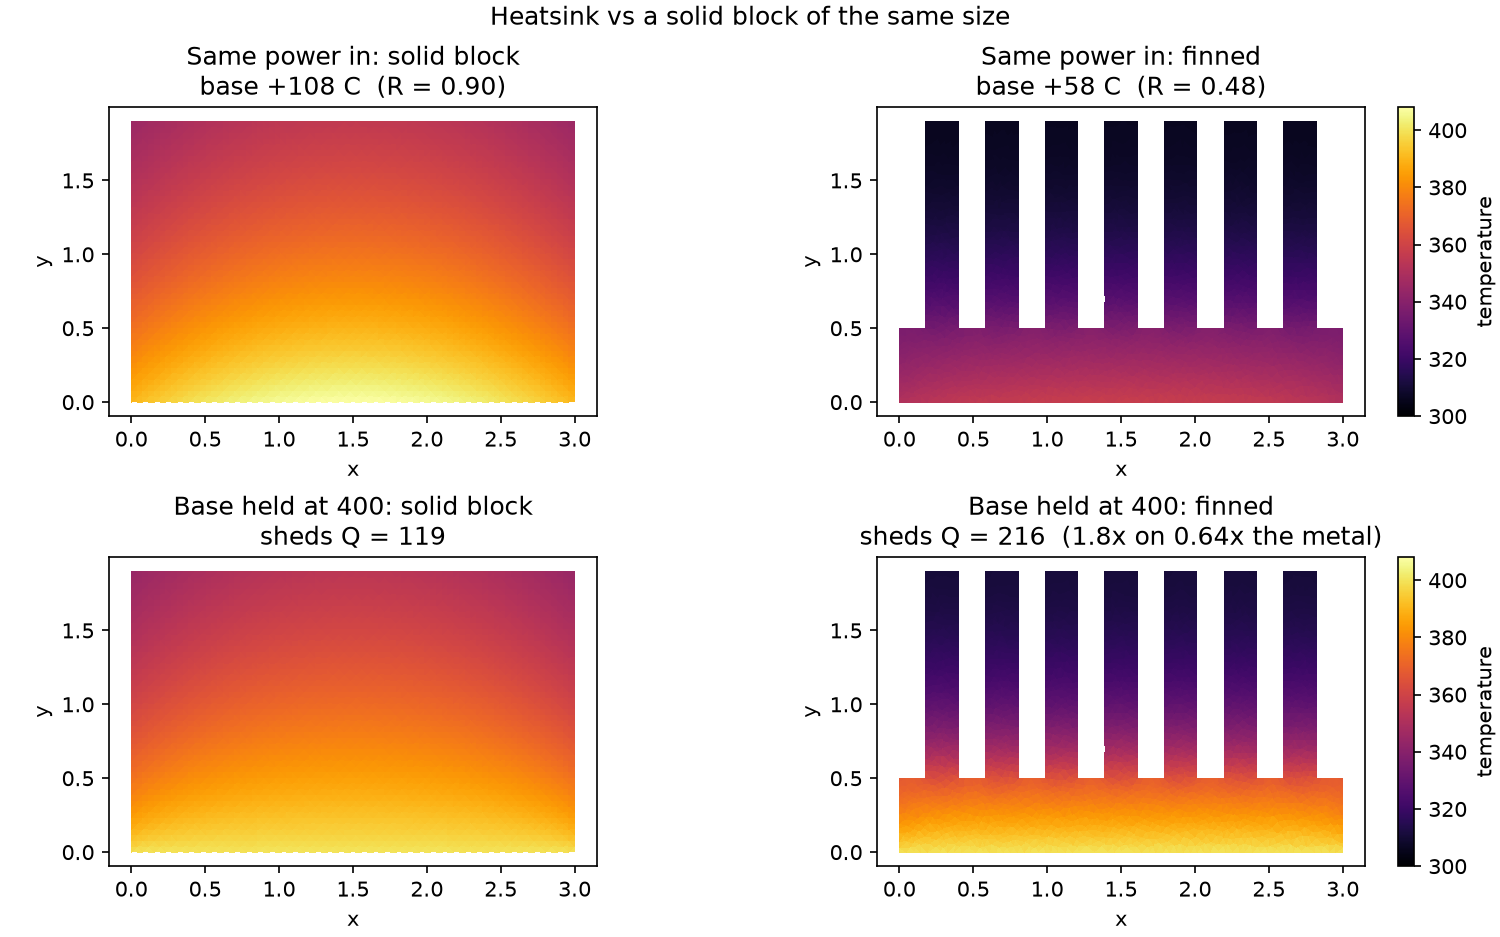
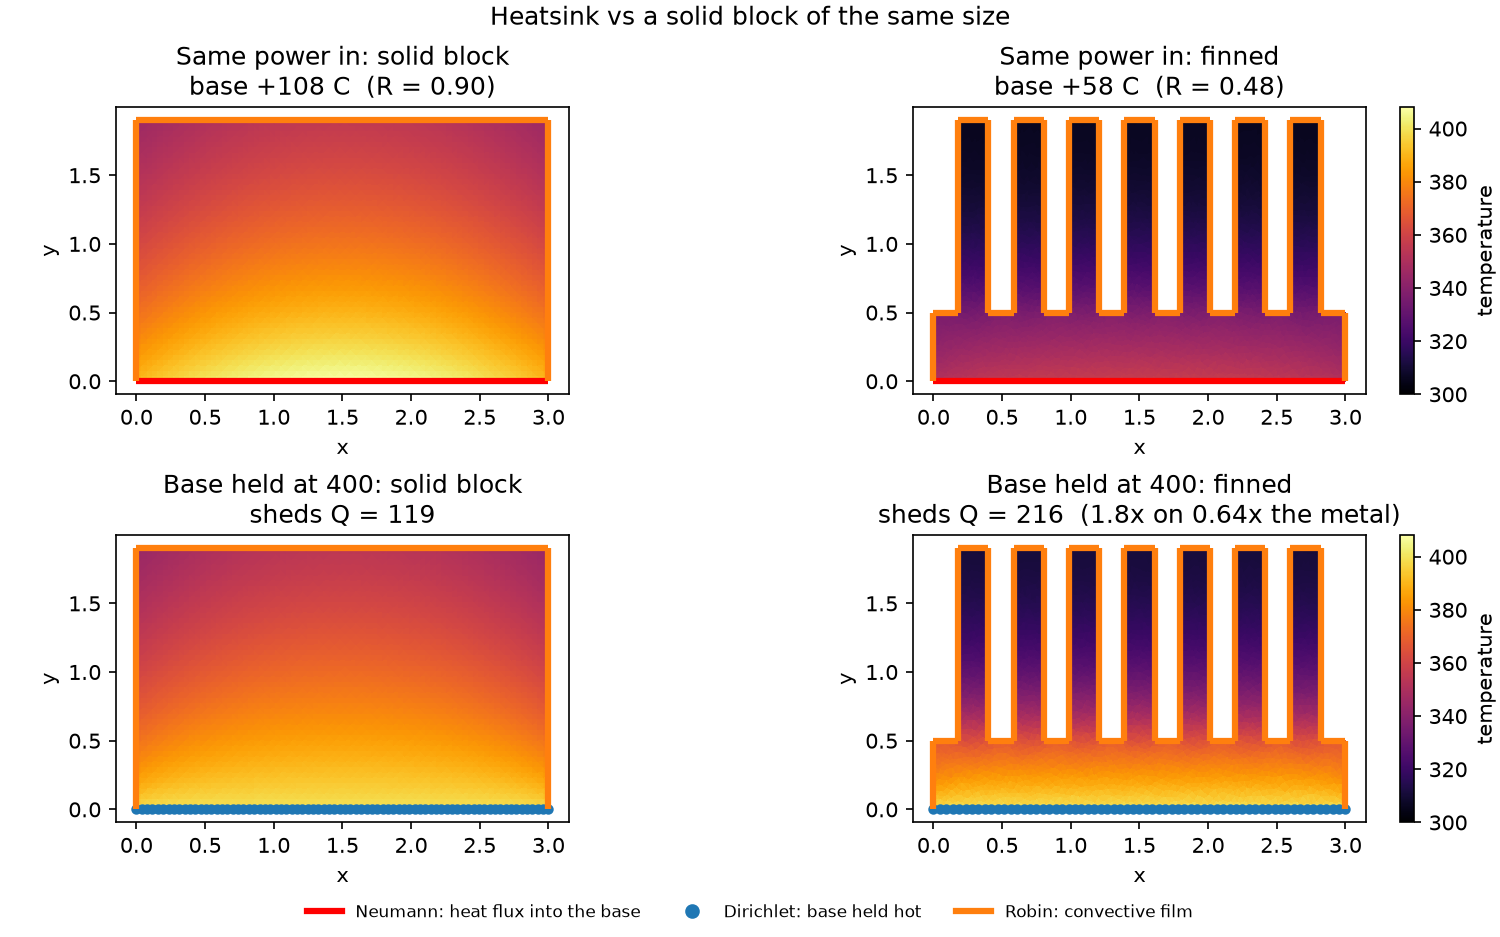
Label the boundary conditions on the heatsink comparison panels
Overlay each panel's conditions on the block-vs-finned comparison: a red run for
the Neumann heat flux into the base (fixed-power row), blue dots for the held
Dirichlet base (fixed-temperature row), and the orange Robin film it sheds
through, with a shared legend. Splits a _heatsink_bc builder out of
_steady_heatsink so the same spec drives both the solve and the overlay.

diff --git a/examples/solver_demos.py b/examples/solver_demos.py
@@ -7,6 +7,7 @@ import numpy as np
 from functools import partial
 
 from matplotlib.collections import LineCollection
+from matplotlib.lines import Line2D
 
 from fem.adaptivity import AdaptiveRefinement
 from fem.backends import IterativeBackend
@@ -801,16 +802,21 @@ def _heatsink_film(mesh):
     return union(in_box([None, 1e-6], [None, None]), on_plane(0, 0.0), on_plane(0, w))
 
 
-def _steady_heatsink(mesh, add_base, kappa, u_ambient):
-    """Steady heat field with `add_base(bc)` on the bottom edge and a Robin film elsewhere.
+def _heatsink_bc(mesh, add_base, kappa, u_ambient):
+    """The boundary spec: `add_base(bc)` on the bottom edge, a Robin film everywhere else."""
+    bc = BoundaryConditions()
+    add_base(bc)
+    bc.add_robin(_heatsink_film(mesh), kappa=kappa, g=kappa * u_ambient)
+    return bc
+
+
+def _steady_heatsink(mesh, bc, kappa, u_ambient):
+    """Steady heat field for `bc` (a base condition plus a Robin film).
 
     Returns (u, heat_shed), where heat_shed is the convective loss through the film,
     kappa * integral_film (u - u_ambient). At steady state that equals the heat entering
     the base, so it is the sink's dissipation.
     """
-    bc = BoundaryConditions()
-    add_base(bc)
-    bc.add_robin(_heatsink_film(mesh), kappa=kappa, g=kappa * u_ambient)
     solver = Solver(mesh, Poisson(source=0), bc)
     u = solver.solve().u
     # The convective loss, read off the same region-restricted boundary mass a Robin
@@ -854,7 +860,8 @@ def _fin_efficiency(kappa, u_ambient, u_hot, thickness, lengths):
     for length in lengths:
         ny = max(10, round(10 * length / thickness))    # ~10 elements across the thickness
         fin = create_rect_mesh(corners=[[0.0, 0.0], [thickness, length]], resolution=(10, ny))
-        _, shed = _steady_heatsink(fin, add_hot, kappa, u_ambient)
+        _, shed = _steady_heatsink(fin, _heatsink_bc(fin, add_hot, kappa, u_ambient),
+                                   kappa, u_ambient)
         area = 2 * length + thickness
         eta_fem.append(shed / (kappa * area * (u_hot - u_ambient)))
         lc = length + thickness / 2
@@ -905,14 +912,19 @@ def demo_heat_equation(dt=0.06, steps=30, kappa=0.3, u_ambient=300.0, u_hot=400.
     def add_hot(bc):
         bc.add(BCType.DIRICHLET, on_plane(1, 0.0), u_hot)
 
+    bc_block_p = _heatsink_bc(block, add_flux, kappa, u_ambient)
+    bc_fin_p = _heatsink_bc(mesh, add_flux, kappa, u_ambient)
+    bc_block_t = _heatsink_bc(block, add_hot, kappa, u_ambient)
+    bc_fin_t = _heatsink_bc(mesh, add_hot, kappa, u_ambient)
+
     power = flux * width
-    u_block_p, _ = _steady_heatsink(block, add_flux, kappa, u_ambient)
-    u_fin_p, _ = _steady_heatsink(mesh, add_flux, kappa, u_ambient)
+    u_block_p, _ = _steady_heatsink(block, bc_block_p, kappa, u_ambient)
+    u_fin_p, _ = _steady_heatsink(mesh, bc_fin_p, kappa, u_ambient)
     r_block = (float(u_block_p.max()) - u_ambient) / power
     r_fin = (float(u_fin_p.max()) - u_ambient) / power
 
-    u_block_t, q_block = _steady_heatsink(block, add_hot, kappa, u_ambient)
-    u_fin_t, q_fin = _steady_heatsink(mesh, add_hot, kappa, u_ambient)
+    u_block_t, q_block = _steady_heatsink(block, bc_block_t, kappa, u_ambient)
+    u_fin_t, q_fin = _steady_heatsink(mesh, bc_fin_t, kappa, u_ambient)
     effectiveness = q_fin / q_block
 
     # One colour scale across all four (ambient to the block's fixed-power peak), so the
@@ -935,6 +947,18 @@ def demo_heat_equation(dt=0.06, steps=30, kappa=0.3, u_ambient=300.0, u_hot=400.
                     label='temperature',
                     title=f'Base held at {u_hot:.0f}: finned\nsheds Q = {q_fin:.0f}  '
                           f'({effectiveness:.1f}x on {metal_ratio:.2f}x the metal)')
+    # Mark where each panel takes its conditions: heat into the base (a Neumann flux on the
+    # fixed-power row, a held Dirichlet temperature on the fixed-temperature row) and the
+    # Robin film it leaves through.
+    for idx, m, panel_bc in (((0, 0), block, bc_block_p), ((0, 1), mesh, bc_fin_p),
+                             ((1, 0), block, bc_block_t), ((1, 1), mesh, bc_fin_t)):
+        comparison.overlay_supports(m, panel_bc, idx=idx)
+    comparison.fig.legend(handles=[
+        Line2D([], [], color='red', lw=3, label='Neumann: heat flux into the base'),
+        Line2D([], [], marker='o', linestyle='', color='tab:blue',
+               label='Dirichlet: base held hot'),
+        Line2D([], [], color='tab:orange', lw=3, label='Robin: convective film'),
+    ], loc='outside lower center', ncol=3, frameon=False, fontsize='small')
 
     # -- validation: fin efficiency against beam theory --------------------------------
     # thickness matches the sink's own fins (heatsink_pslg's fin_width default).
